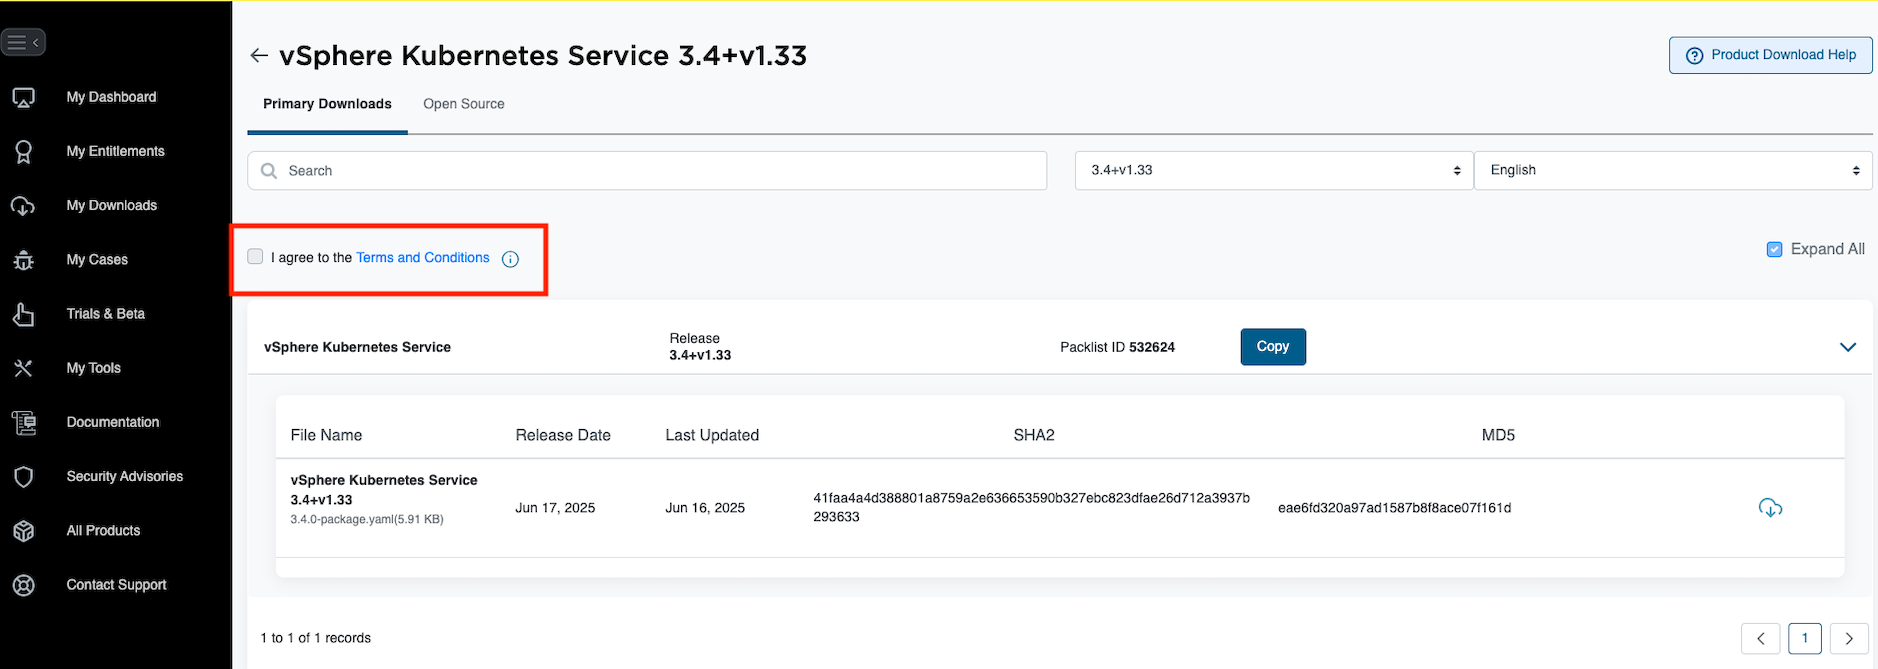
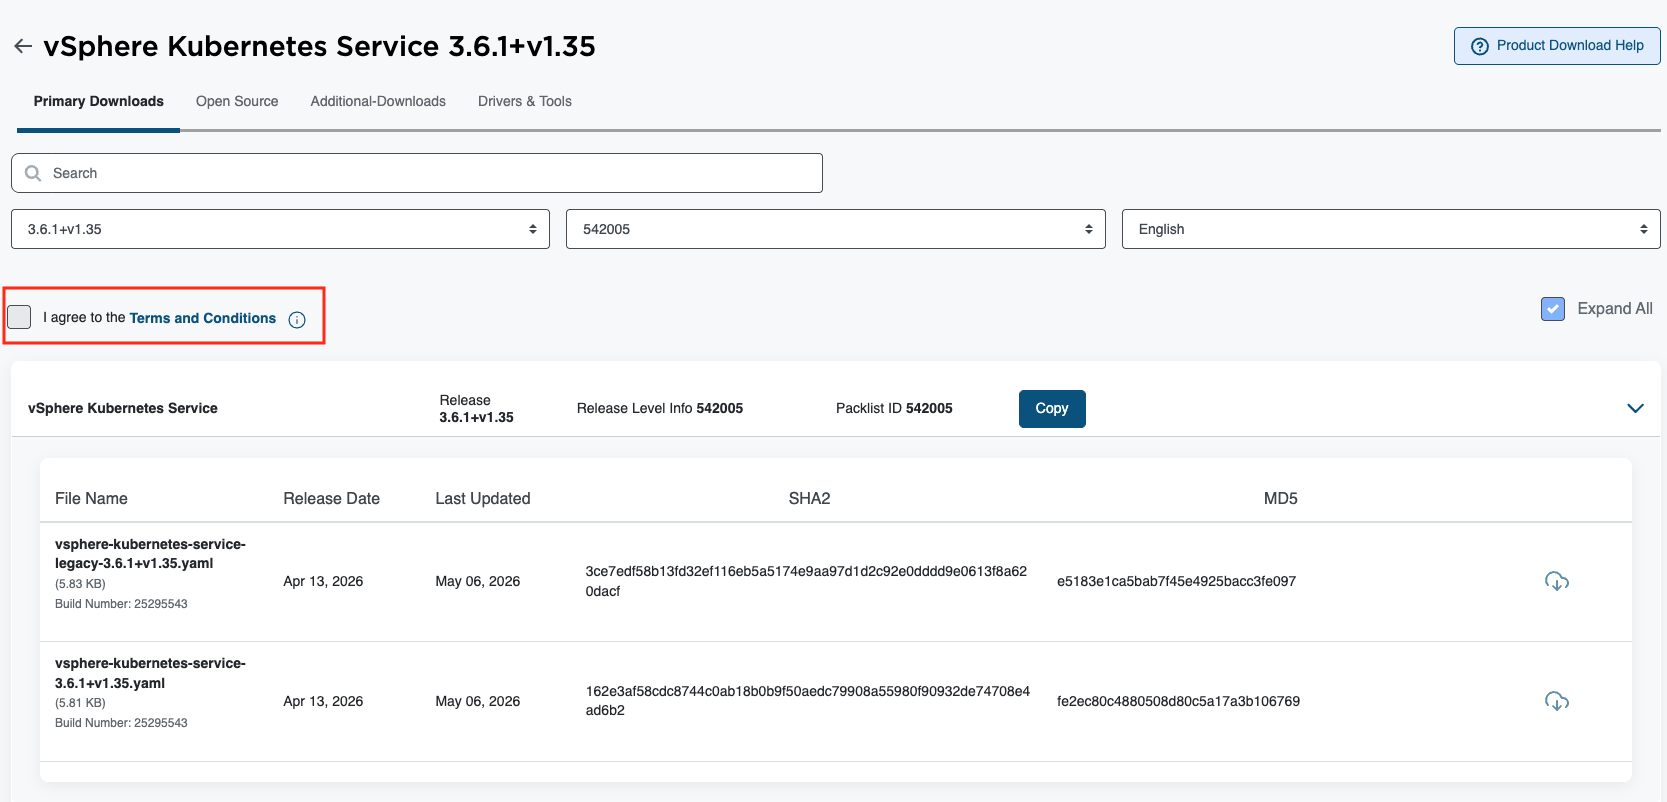
update supervisor service guide doc for 9.1.0

diff --git a/README.md b/README.md
@@ -12,6 +12,8 @@ Explore VCF services purpose-built to accelerate modern application delivery and
 
 #### Please refer to [How to find and install Supervisor Services](#how-to-find-and-install-supervisor-services) to find and install supervisor services.
 
+Starting VCF 9.1.0, the compatible service versions with which Supervisor versions can be found in [Interoperability Matrix](https://interopmatrix.broadcom.com/Interoperability).
+
 Prior to vSphere 8 Update 1, the Supervisor Services are only available with Supervisor Clusters enabled using VMware NSX-T. With vSphere 8 U1, Supervisor Services are also supported when using the vSphere Distributed Switch (VDS) networking stack.
 
 | Supervisor Service | vSphere 7 | vSphere 8 | VCF 9 |
@@ -38,18 +40,19 @@ Prior to vSphere 8 Update 1, the Supervisor Services are only available with Sup
 
 1. Log in to [support.broadcom.com](https://support.broadcom.com)
 
-2. Select `Enterprise Software` on the left hand side navigation.
+2. Select `Software` on the left hand side navigation, and click on `Enterprise Software`, then click on `My Downloads`.
 
 <img src="main.png" width="750" height="300"  title="Home" id="home">
 
 3. All services are entitled under VCF or legacy SKUs and can be downloaded directly from `My Downloads`.
-Select `My Downloads` on the left hand side navigation and search for `vSphere Supervisor Services`.
+Search for `vSphere Supervisor Services` under `My Downloads`.
 
 <img src="vcf-entitlement.png" width="750" height="300"  title="Home" id="home">
 
 4. If you are looking to download VMware Private AI Services, go to `My Downloads` and then search for `VMware Private AI Services`.
 
 5. Next navigate to the service of choice and version you are looking to install.
+#### Please check [Interoperability Matrix](https://interopmatrix.broadcom.com/Interoperability) to find out which service version is compatible with which Supervisor version.
 
 6. To download files, first you need to click `Terms and Conditions` to activate the checkbox.
 
@@ -61,11 +64,12 @@ Select `My Downloads` on the left hand side navigation and search for `vSphere S
 
 8. Click on the download icon on the service definition as well as any additional files (such as values.yaml files, etc.)
 
+> ⚠ Services released with VCF 9.1.0 or later may include two YAML definitions: a 'legacy' version (file name contains word `legacy`) for pre-9.1.0 VCF deployments or air-gapped VCF environments, and a standard version for VCF 9.1.0+ deployments with VCF Software Depot supported.
+
 > ⚠ Service configuration value fields may change for each version. If a `values.yaml` manifest is available under the selected service version, consider downloading it, editing it if needed, and providing it when installing or upgrading to that service version.
+<img src="legacy-download.png" width="750" height="300" title="How to Download legacy YAML" id="legacy-download">
 
 9. You can now proceed to install your service.
-
-#### Please check [Interoperability Matrix](https://interopmatrix.broadcom.com/Interoperability) to find out which service version is compatible with which Supervisor version.
 
 ## Supervisor Services Catalog
 
@@ -121,7 +125,7 @@ VMware vSphere Kubernetes Service (VKS, formerly known as the VMware Tanzu Kuber
 
 ### vSphere Kubernetes Service Versions
 
-The [Interoperability Matrix](https://interopmatrix.broadcom.com/Interoperability?col=820,18034,18430,18431,18448,18667,18589,18562,19031,19029,19027,19025&row=2,%261794,&isHidePatch=false&isHideLegacyReleases=false) shows each VKS version below, including compatible Kubernetes releases and the vCenter Server versions containing compatible Supervisor versions. Note that some compatible Kubernetes releases may have reached End of Service; refer to the [Product Lifecycle](https://support.broadcom.com/group/ecx/productlifecycle) tool (Division: "VMware Cloud Foundation", Product Name: "vSphere Kubernetes releases") to view End of Service dates for Kubernetes releases.
+The [Interoperability Matrix](https://interopmatrix.broadcom.com/Interoperability?col=820,18034,18430,18431,18448,18667,18589,18562,19031,19029,19027,19025&row=2,%261794,&isHidePatch=false&isHideLegacyReleases=false) shows each VKS version below, including compatible Kubernetes releases and the vCenter Server versions containing compatible Supervisor versions. Please refer to [VKS release notes doc](https://techdocs.broadcom.com/us/en/vmware-cis/vcf/vsphere-supervisor-services-and-standalone-components/latest/release-notes/vmware-tanzu-kubernetes-grid-service-release-notes.html#GUID-166807c0-799a-4122-a5de-59c5d158b3e3-en_id-04d505aa-c276-45f3-8c00-b0c3657a956c) for newer VKS releases. Note that some compatible Kubernetes releases may have reached End of Service; refer to the [Product Lifecycle](https://support.broadcom.com/group/ecx/productlifecycle) tool (Division: "VMware Cloud Foundation", Product Name: "vSphere Kubernetes releases") to view End of Service dates for Kubernetes releases.
 
 - VKS v3.4.0
   - [Release Notes](https://techdocs.broadcom.com/us/en/vmware-cis/vcf/vsphere-supervisor-services-and-standalone-components/latest/release-notes/vmware-tanzu-kubernetes-grid-service-release-notes.html#GUID-166807c0-799a-4122-a5de-59c5d158b3e3-en_id-e41377ae-b95a-4df2-8e72-f2424c8af0c3)
